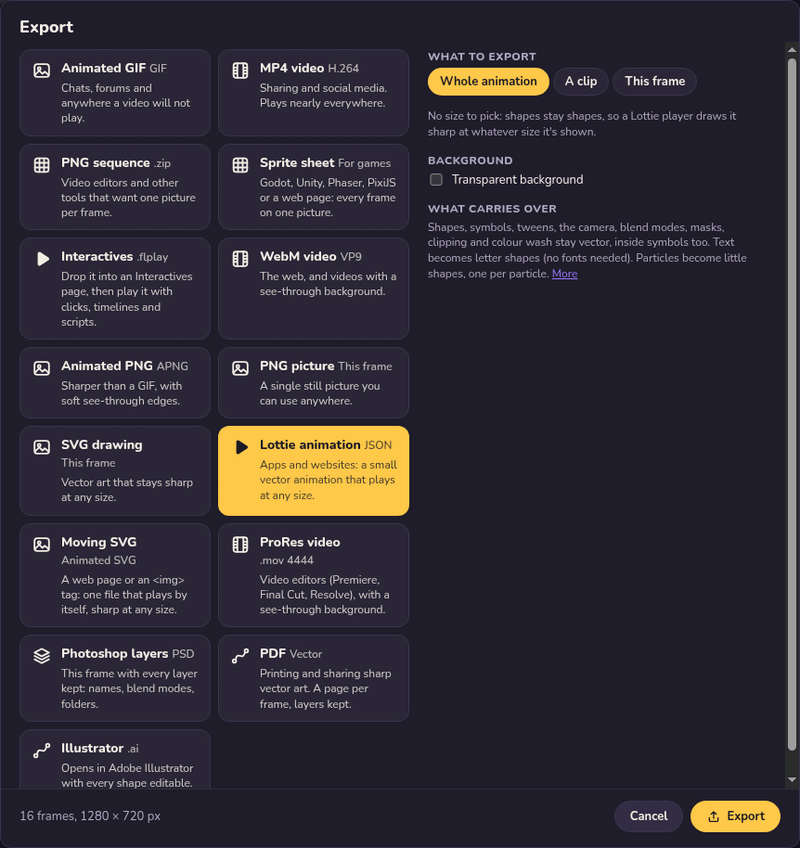
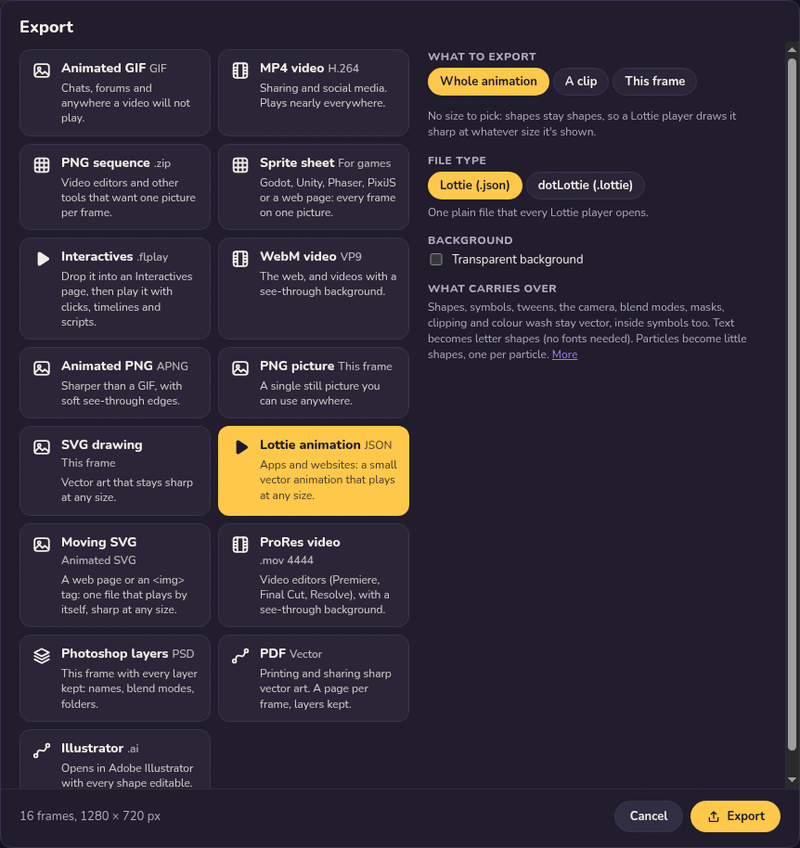
Lottie help: dotLottie keywords, new Export window picture

Changed region(s): [[0.5312, 0.184, 0.9375, 0.4292]]

diff --git a/src/export/help.ts b/src/export/help.ts
@@ -390,7 +390,7 @@ The second class picks the clip. Loops keep going; clips that don't loop stop on
     section: 'Exporting',
     media: 'export-lottie.png',
     summary: 'Export a small vector animation that apps and websites play with Lottie, sharp at any size.',
-    keywords: ['lottie', 'bodymovin', 'json', 'lottie-web', 'after effects', 'app animation', 'vector animation', 'lottiefiles'],
+    keywords: ['lottie', 'dotlottie', '.lottie', 'bodymovin', 'json', 'lottie-web', 'after effects', 'app animation', 'vector animation', 'lottiefiles'],
     body: `**Lottie animation** saves a Lottie file that apps and websites play with the free Lottie players. Shapes stay shapes, so it's sharp at any size and small.
 
 ## File type
